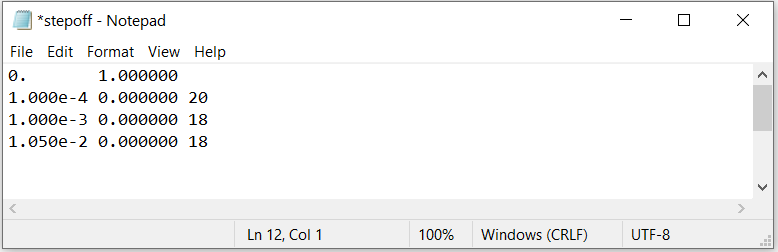
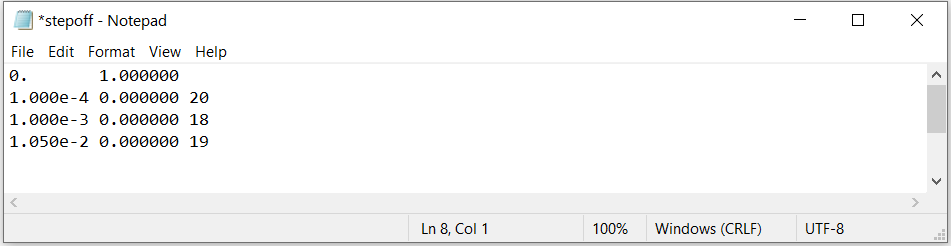
update basic and compact waveform types

diff --git a/content/files/waveFile.rst b/content/files/waveFile.rst
@@ -3,8 +3,53 @@
 Wave File
 =========
 
-The wave file defines the time-dependent current in the transmitter during both the on-time and off-time, as well as the time-stepping that is used to solve the time-dependent Maxwell system. The general format for the wave file is as follows: 
+The wave file defines the time-dependent current in the transmitter during both the on-time and off-time, as well as the time-stepping that is used to solve the time-dependent Maxwell system.
 
+
+.. important::
+
+    - You want to discretize in time appropriately while keeping the number of unique step lengths as small as possible. Every different step length used will result in the code needing store the factorization of another linear system.
+    - The latest time defining the transmitter waveform (:math:`t_f`) **must** be after the latest time channel in the survey file 
+    - The earliest time defining the transmitter waveform (:math:`t_0`) **must** be before the earliest time channel in the survey file
+    - The first column in the wave file **must** have increasing values
+
+
+Basic Format
+------------
+
+The basic format for a wave file is a two column format: 
+
+|
+| :math:`t_0 \;\;\; I_0`
+| :math:`t_1 \;\;\; I_1`
+| :math:`t_2 \;\;\; I_2`
+| :math:`\;\;\;\, \vdots`
+| :math:`t_f \;\;\; I_f`
+|
+|
+
+where
+
+    - :math:`t_i` is the time in seconds
+    - :math:`I_i` is the current in the transmitter time :math:`t_i`
+
+
+Please be aware that you are defining the transmitter current during both the on-times and off times. The code will assume a steady-state transmitter current of :math:`I_0` for :math:`t \leq t_0`.
+
+**Step-Off Example:**
+
+Here, we have provided an `example file for a stepoff waveform <https://github.com/ubcgif/tdoctree/raw/tdoctree/assets/wave_examples/stepoff_basic.txt>`__ . This wave file is designed to model data at logarithmically spaced time channels between t = 0.0001 s and t = 0.01 s. We have a least 20 steps from t = 0 s to t = 1e-4 s in order to accurately model data at the first time channel. And the final time in the wave file is after t = 0.01 s. Notice that because there are only 3 distinct time step lengths (5e-6 s, 5e-5 s and 5e-4 s), the code only needs to store the factorizations of 3 linear systems.
+
+**Arbitrary Waveform Example:**
+
+We have also provided an `example file for an arbitrary waveform <https://github.com/ubcgif/tdoctree/raw/tdoctree/assets/wave_examples/arbitrary_basic.txt>`__ . The waveform is a half-sine function whose on-time is from -20 ms to 0 ms. This wave file is designed to model data at logarithmically spaced time channels between t = 0.0001 s and t = 0.01 s. In this case, we must define the waveform at :math:`t \; < \; 0` s. Notice that once againg there are only 3 distinct time step lengths (5e-6 s, 5e-5 s and 5e-4 s) and the code only needs to store the factorizations of 3 linear systems.
+
+
+
+Compact Format
+--------------
+
+The compact format for the wave file better demonstrates groups of time invervals that use the same step length. This format is as follows:
 
 |
 | :math:`t_0 \;\;\; I_0`
@@ -17,27 +62,19 @@ The wave file defines the time-dependent current in the transmitter during both 
 
 where
 
-	- :math:`t_i` is a particular time in seconds
-	- :math:`I_i` is the current in the transmitter at all times within interval :math:`i`; i.e. for :math:`t_{i-1} < t \leq t_i`
-	- :math:`n_i` is the number of linear time steps between times :math:`t_{i-1}` and :math:`t_i`
+    - :math:`t_i` is a particular time in seconds
+    - :math:`I_i` is the current in the transmitter at all times within interval :math:`i`; i.e. for :math:`t_{i-1} < t \leq t_i`
+    - :math:`n_i` is the number of linear time steps between times :math:`t_{i-1}` and :math:`t_i`
 
 The first line of the wave file defines the initial time :math:`t_0` and current :math:`I_0`. The time-step length :math:`\Delta t_i` used within interval :math:`i` is given by:
 
 .. math::
-	\Delta t_i = \frac{t_i- t_{i-1}}{n_i}
+    \Delta t_i = \frac{t_i- t_{i-1}}{n_i}
 
 
-.. important::
+**Step-Off Example:**
 
-	- The latest time defining the transmitter waveform (:math:`t_f`) **must** be later than the latest time channel in the survey file 
-	- The earliest time defining the transmitter waveform (:math:`t_0`) **must** be earlier than the earliest time channel in the survey file
-	- The first column in the wave file **must** have increasing values
-
-
-Step off example
-----------------
-
-For a unit step-off waveform, an example wave file is shown below. This wave file is designed to model data at time channels between t = 0.0001 s and t = 0.01 s. We have a least 20 steps from t = 0 s to t = 1e-4 s in order to accurately model data at the first time channel. And the final time in the wave file is after t = 0.01 s. Notice that because there are 3 distinct time step lengths, the code would store the factorizations of 3 linear systems.
+For a unit step-off waveform, we have provided an example wave file is shown below. This waveform is IDENTICAL to the stepoff waveform shown in the *basic format section* . We simply used the compact format.
 
 
 .. figure:: images/wave_stepoff.png
@@ -47,8 +84,7 @@ For a unit step-off waveform, an example wave file is shown below. This wave fil
      Click to `download <https://github.com/ubcgif/tdoctree/raw/tdoctree/assets/wave_examples/stepoff.txt>`__ . 
 
 
-Square pulse example
---------------------
+**Square Pulse Example:**
 
 Here, we consider the wave file for a square pulse waveform. The on-time begins at t = -20 ms and ends at t = 0 s. This wave file is designed to model data at time channels between t = 0.0001 s and t = 0.01 s. When designing the waveform, several things were considered:
 
@@ -64,14 +100,8 @@ Here, we consider the wave file for a square pulse waveform. The on-time begins 
 
 
 
-Arbitrary waveform
-------------------
+**Arbitrary Waveform Example:**
 
-Here, we consider the wave file corresponding to an arbitrary waveform. In this case, it is a half-sine waveform whose on-time is from -20 ms to 0 ms. This wave file is designed to model data at time channels between t = 0.0001 s and t = 0.01 s. At each time during the on-time, we must provide the transmitter current. Once again, notice that:
-
-    - the waveform during the on-time was discretized to finer time-steps as we approached the off-time. This was done to more accuately model the early time data
-    - we made sure to minimize the number of distinct time-step lengths used to model the data. In this case, we discretized the waveform to use step lengths of 5e-6 s, 5e-5 s and 5e-4 s. Thus, the code only needs to store the factorizations of 3 linear systems.
-
-Click to `download and see this file <https://github.com/ubcgif/tdoctree/raw/tdoctree/assets/wave_examples/arbitrary.txt>`__ .
+Here, we consider the wave file corresponding to the same arbitrary waveform that was shown in the *basic format section*. Click to `see this file <https://github.com/ubcgif/tdoctree/raw/tdoctree/assets/wave_examples/arbitrary.txt>`__ . Notice that we must define the transmitter current at every distinct on-time. However, we can compact the time-stepping during the off-time because the transmitter current doesn't change.
 
 
